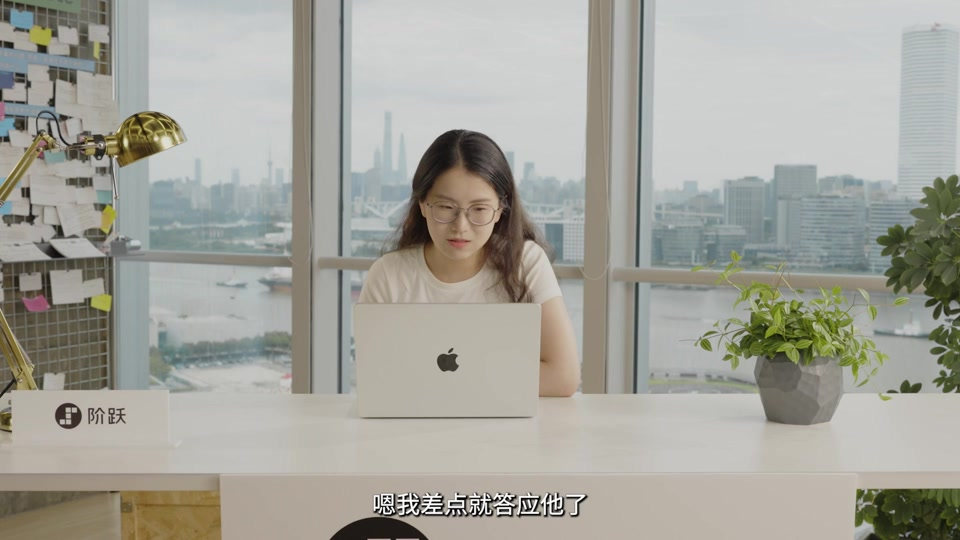
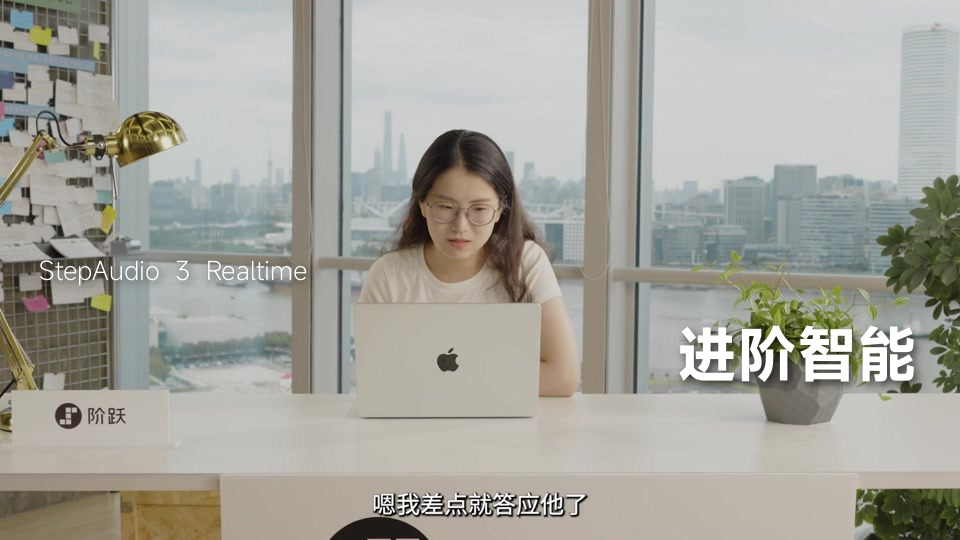
restore text overlay on realtime Chinese solo cover

Changed region(s): [[0.6875, 0.5926, 0.9688, 0.7407], [0.0312, 0.4741, 0.1562, 0.5333], [0.1875, 0.4741, 0.3125, 0.5333]]

diff --git a/step-audio-3-realtime/index.html b/step-audio-3-realtime/index.html
@@ -918,7 +918,7 @@ const COPY = {
     galleryDemos:[
       {no:"01",src:"assets/demo/realtime-01-1080.mp4?v=20260914-hd1",mobileSrc:"assets/demo/realtime-01.mp4?v=20260914-1",poster:"assets/demo/realtime-01-cover.jpg?v=20260914-leftcenter1",t:"自然对话 · 中文双人",d:"多人交谈中的自然接话与低延迟响应。"},
       {no:"02",src:"assets/demo/realtime-02-1080.mp4?v=20260914-hd2",mobileSrc:"assets/demo/realtime-02.mp4?v=20260914-2",poster:"assets/demo/realtime-02-cover.jpg?v=20260914-leftcenter2",t:"自然对话 · 英文多人",d:"多人交流中的自然节奏与自由接话。"},
-      {no:"03",src:"assets/demo/realtime-03-1080.mp4?v=20260914-hd3",mobileSrc:"assets/demo/realtime-03.mp4?v=20260914-3",poster:"assets/demo/realtime-03-cover.jpg?v=20260915-face12",t:"实时对话 · 中文交互",d:"实时语音交互中的回应与话轮衔接。"},
+      {no:"03",src:"assets/demo/realtime-03-1080.mp4?v=20260914-hd3",mobileSrc:"assets/demo/realtime-03.mp4?v=20260914-3",poster:"assets/demo/realtime-03-cover.jpg?v=20260915-face12-text1",t:"实时对话 · 中文交互",d:"实时语音交互中的回应与话轮衔接。"},
       {no:"04",src:"assets/demo/realtime-04-1080.mp4?v=20260914-hd4",mobileSrc:"assets/demo/realtime-04.mp4?v=20260914-4",poster:"assets/demo/realtime-04-cover.jpg?v=20260914-leftcenter4",t:"实时对话 · 英文演示",d:"自然表达、及时回应与顺畅交流。"},
     ],
     benchmarkKicker:"模型评测",
@@ -962,7 +962,7 @@ const COPY = {
       {no:"01",src:"assets/demo/realtime-02-1080.mp4?v=20260914-hd2",mobileSrc:"assets/demo/realtime-02.mp4?v=20260914-2",poster:"assets/demo/realtime-02-cover.jpg?v=20260914-leftcenter2",t:"Natural conversation · Group talk",d:"A relaxed rhythm and free-flowing exchange between several speakers."},
       {no:"02",src:"assets/demo/realtime-01-1080.mp4?v=20260914-hd1",mobileSrc:"assets/demo/realtime-01.mp4?v=20260914-1",poster:"assets/demo/realtime-01-cover.jpg?v=20260914-leftcenter1",t:"Natural conversation · Two speakers",d:"Natural turn-taking and low-latency response in a shared conversation."},
       {no:"03",src:"assets/demo/realtime-04-1080.mp4?v=20260914-hd4",mobileSrc:"assets/demo/realtime-04.mp4?v=20260914-4",poster:"assets/demo/realtime-04-cover.jpg?v=20260914-leftcenter4",t:"Live conversation · English demo",d:"Natural delivery, timely responses, and an easy-flowing exchange."},
-      {no:"04",src:"assets/demo/realtime-03-1080.mp4?v=20260914-hd3",mobileSrc:"assets/demo/realtime-03.mp4?v=20260914-3",poster:"assets/demo/realtime-03-cover.jpg?v=20260915-face12",t:"Live conversation · Chinese demo",d:"Responsive voice interaction with smooth turn-taking."},
+      {no:"04",src:"assets/demo/realtime-03-1080.mp4?v=20260914-hd3",mobileSrc:"assets/demo/realtime-03.mp4?v=20260914-3",poster:"assets/demo/realtime-03-cover.jpg?v=20260915-face12-text1",t:"Live conversation · Chinese demo",d:"Responsive voice interaction with smooth turn-taking."},
     ],
     benchmarkKicker:"Model evaluation",
     benchmarkTitle:["From understanding to live collaboration,","the core capabilities on one canvas."],
